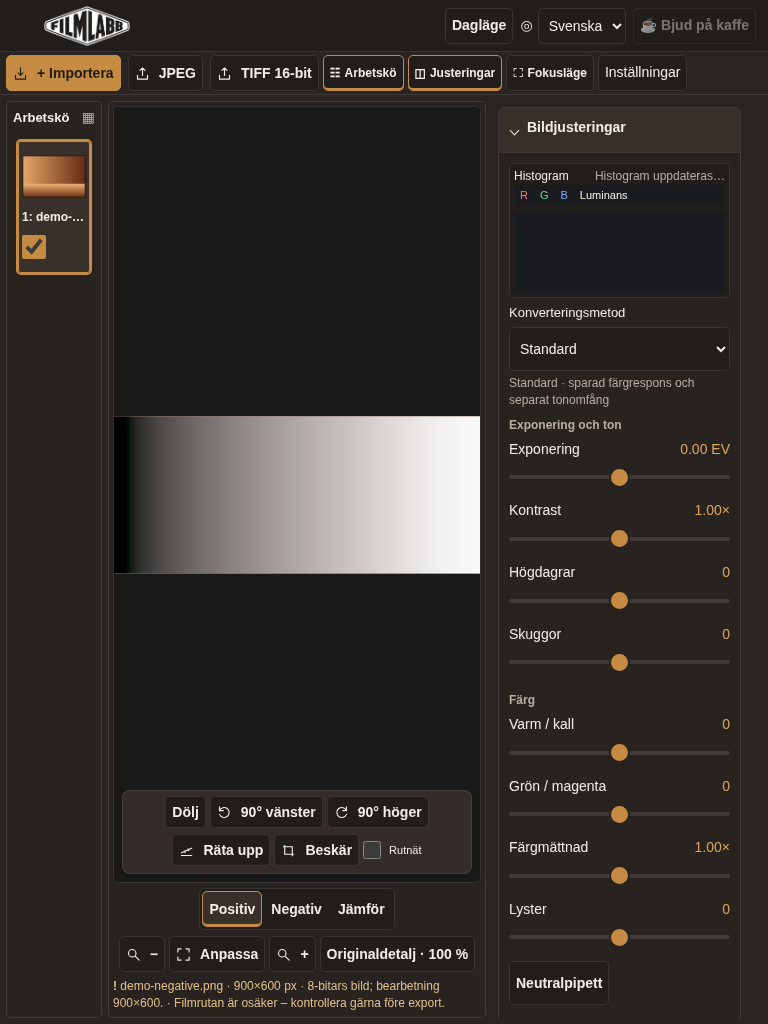
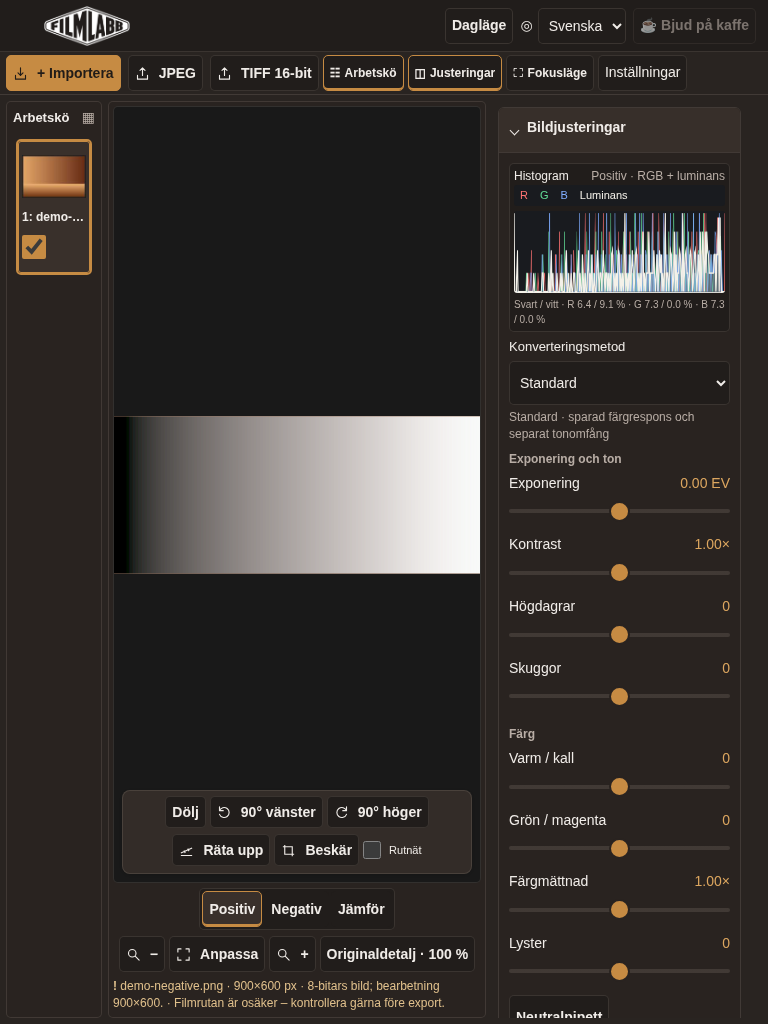
Record full UI regression results and capture the document footer in place

diff --git a/docs/UI_2_1.md b/docs/UI_2_1.md
@@ -47,6 +47,8 @@ See also [all cards closed](ui-2.1/after/desktop-closed.png), [light background 
 
 ## Verification and limits
 
+Verified locally on Node 24.22.1 / Chromium with SwiftShader: `npm run test:full` **116/116 groups passed** (374.81 seconds); the final `npm run build` passed. This includes existing pixel references, Editing 2.0/vibrance, RGB histogram, CPU/GPU, older projects, JPEG/TIFF, batch, cancellation and fallback regressions.
+
 The targeted browser test checks initial defaults (including an obsolete saved Advanced-open preference), independent disclosures and keyboard focus, session retention across image/engine/project changes, editing/reset/profile/export summaries, film-base review/accept/undo, CPU/GPU switching, unique IDs, and material styles at four viewport sizes in both modes. It verifies that disclosures and language changes preserve image state, analysis counters and GPU reconstruction/upload counters. Material assertions require opaque bodies/chrome, 91%/9px headers, 83%/10px toolbar, and reduced-transparency fallback.
 
 Existing workflows are updated to explicitly open the calibration card before measuring or interacting with its nested controls. Assertions of existing behavior remain; parent-ownership checks use the containing card through its single new body wrapper.
